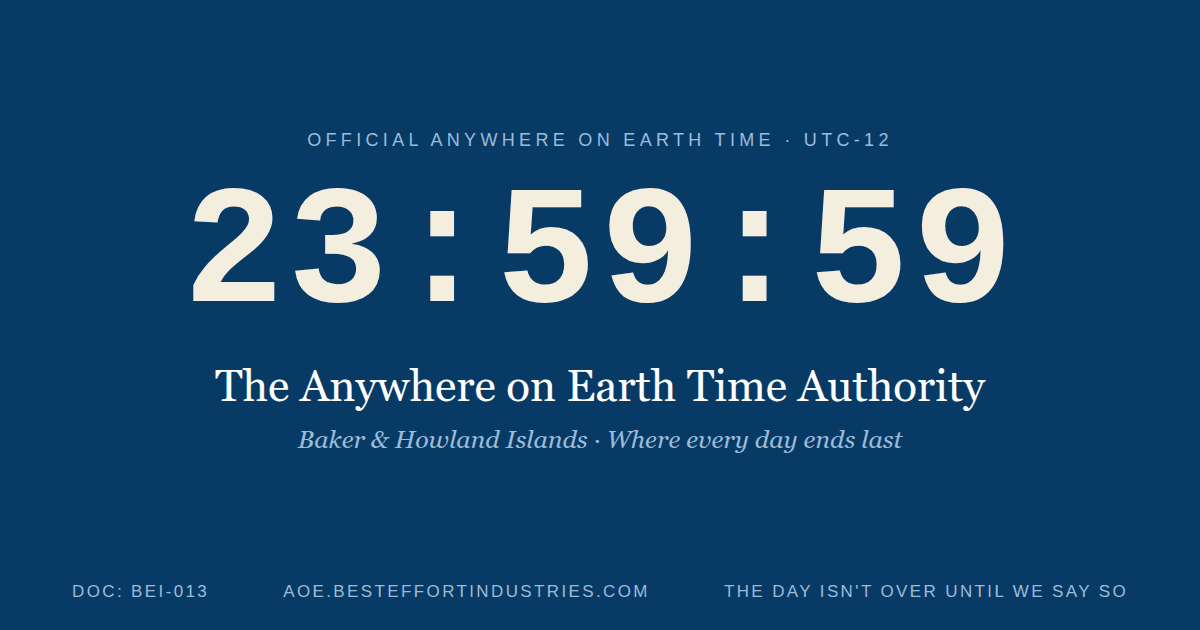
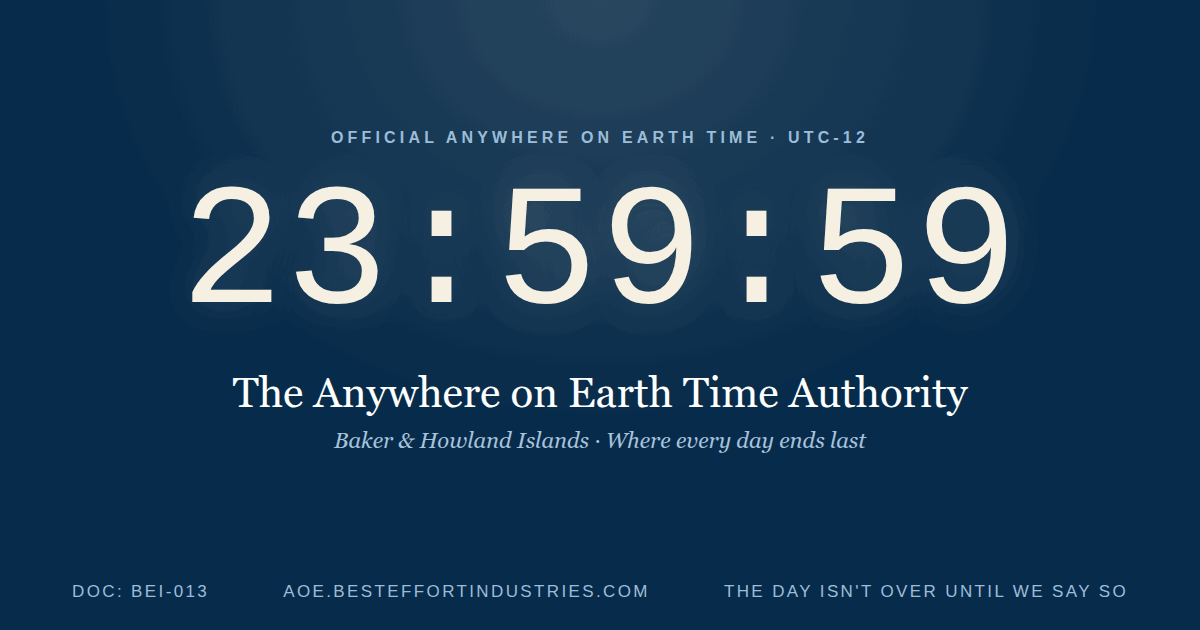
Match the share card to the redesign

diff --git a/tools/og.html b/tools/og.html
@@ -12,7 +12,8 @@
   * { margin: 0; padding: 0; box-sizing: border-box; }
   html, body { width: 1200px; height: 630px; }
   body {
-    background: #083a66;
+    background: #072b4a;
+    background-image: radial-gradient(60% 95% at 50% 0%, rgba(247,241,227,.14), transparent 72%);
     color: #fff;
     font-family: Georgia, serif;
     display: flex; flex-direction: column; text-align: center;
@@ -24,17 +25,18 @@
   }
   .lbl {
     font-family: "Helvetica Neue", Arial, sans-serif;
-    font-size: 18px; letter-spacing: 0.24em; text-transform: uppercase;
-    color: #9dbdda;
+    font-size: 16px; letter-spacing: 0.26em; text-transform: uppercase;
+    color: #9dbdda; font-weight: 600;
   }
   .clock {
     font-family: "Liberation Mono", Menlo, Consolas, monospace;
-    font-size: 168px; font-weight: 700; letter-spacing: 0.02em;
-    margin-top: 10px; color: #f5efdf;
+    font-size: 172px; font-weight: 500; letter-spacing: 0.01em;
+    margin-top: 12px; color: #f7f1e3; font-variant-numeric: tabular-nums;
+    text-shadow: 0 0 46px rgba(247,241,227,.20);
   }
-  h1 { font-size: 44px; font-weight: 400; margin-top: 10px; }
+  h1 { font-family: Georgia, serif; font-size: 42px; font-weight: 400; margin-top: 14px; }
   .sub {
-    margin-top: 14px; font-style: italic; font-size: 25px; color: #9dbdda;
+    margin-top: 12px; font-style: italic; font-size: 22px; color: #a7c3dc;
   }
   .foot {
     flex: none;
